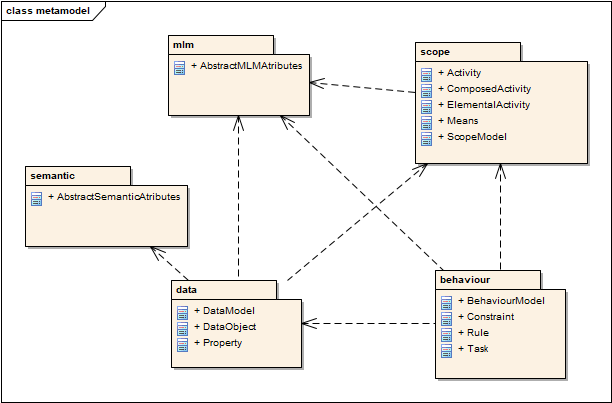
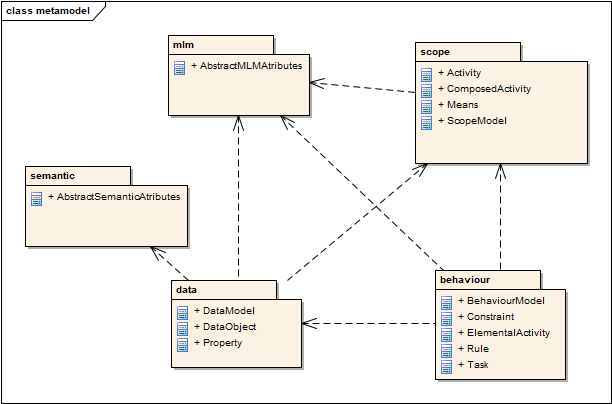
Update metamodel.png and README.md

diff --git a/README.md b/README.md
@@ -11,7 +11,7 @@ Metamodel for the Model for Manufacturing (MfM) methodology.
 
 ![metamodel_mlm](mlm.png)
 
-- Classes are divided into `semantic` , `scope`, `data` and `behavior` packages.
+- Classes are divided into `semantic` , `scope`, `data` and `behaviour` packages.
 - Some classes have relationships with themselves: `Activity`, `Means`, `DataObject`, `Task`.
 
 
@@ -30,7 +30,7 @@ Metamodel for the Model for Manufacturing (MfM) methodology.
 - The root class is `ScopeModel`, which is composed of a main `root` activity.
 - The important concepts of the Scope Model are the activities (`Activity`), the resources or means for their realization (`Means`) and the objects required and produced by the activity (`DataObject`, modelled in the data package), as well as the relationships between them.
 - The sequence of activities is modelled by the relationship between Activity objects, through the roles `previous` and `next`.
-- An activity can be a `ComposedActivity` (which is decomposed into other subactivities, with `parent` and `child` roles) or an `ElementalActivity` (without children). The latter is used in the `behavior` package.
+- An activity can be a `ComposedActivity` (which is decomposed into other subactivities, with `parent` and `child` roles) or an `ElementalActivity` (without children). The latter is defined in the `behaviour` package.
 - The resources to carry out the activities are modelled with the `Means` class.
 - Sometimes, the resources that are used in sub-activities can be packaged in a single resource, easier to associate with the parent activity (for example, “CAX” to package “CAD”, “CAD / CAM” and “CAPP” systems) . This possibility has been modelled with the aggregation relationship between `Means` (`bundle` role).
 - The data objects to be used in the activities are modelled with DataObject class. (Note: these classes are valid in IDEF0 for inputs, outputs and controllers.)
@@ -51,13 +51,13 @@ Metamodel for the Model for Manufacturing (MfM) methodology.
 
 ![metamodel_behaviour](behaviour.png)
 
-- The root class is `BehaviorModel`, which is composed of all the `ElementalActivity` defined in the Scope Model.
-- The important concepts of the Behavior Model are the tasks that allow an elementary activity to be carried out, the rules associated with the tasks and their possible constraints and the data objects required or produced, as well as the relationships between them.
-- An `ElementalActivity` (from the `scope` package) adds at least one Task.
-- Each `Means` of the `ElementalActivity` (see `scope` package) can be assigned to several `Tasks`.
+- The root class is `BehaviourModel`, which is composed of all the `ElementalActivity` activities defined in the Scope Model.
+- The important concepts of the Behaviour Model are the tasks that allow an elementary activity to be carried out, the rules associated with the tasks and their possible constraints and the data objects required or produced, as well as the relationships between them.
+- An `ElementalActivity` adds at least one Task.
+- Each `Means` (see `scope` package) of the `ElementalActivity` can be assigned to several `Tasks`.
 - Tasks can be performed consecutively (`previous` and `next` roles).
 - The procedure to perform a task is modelled with the `Rule` class. Each task has its rule.
-- All the data objects associated with the `ElementalActivity` (see `scope` package) are now assigned to the tasks. It can be done in two ways.
+- All `DataObject` objects (see `scope` package) associated with the `ElementalActivity` are now assigned to the tasks. It can be done in two ways.
 - The first way is identical to how it is done with the `Activity`-`DataObject` relation (see `scope` package), substituting the `ElementalActivity` for the `Task`. This form simply specifies which task in the elementary activity each data object uses.
 - The second way consists in relating the `Task` to a `Property` of the data object. This form adds more information than the previous one.
 - A `Rule` can have several `Constraints`.
